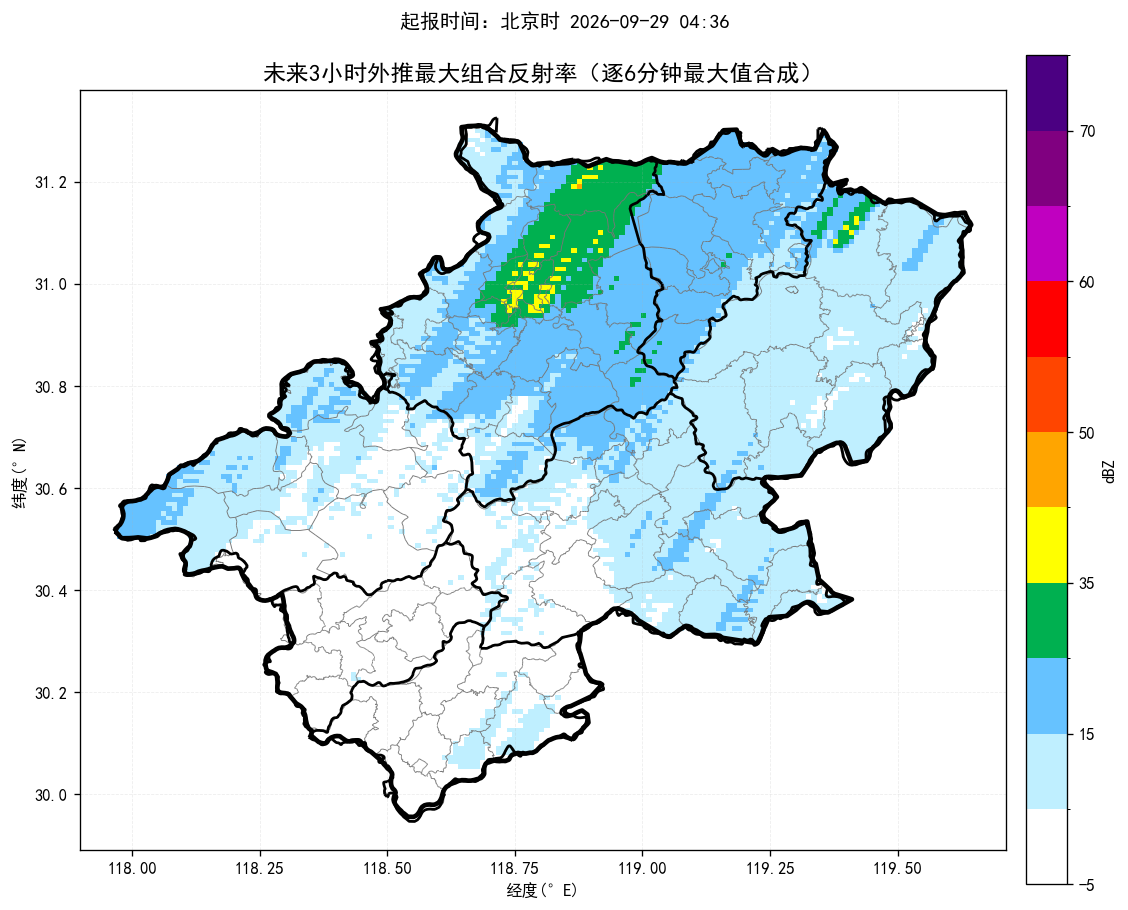
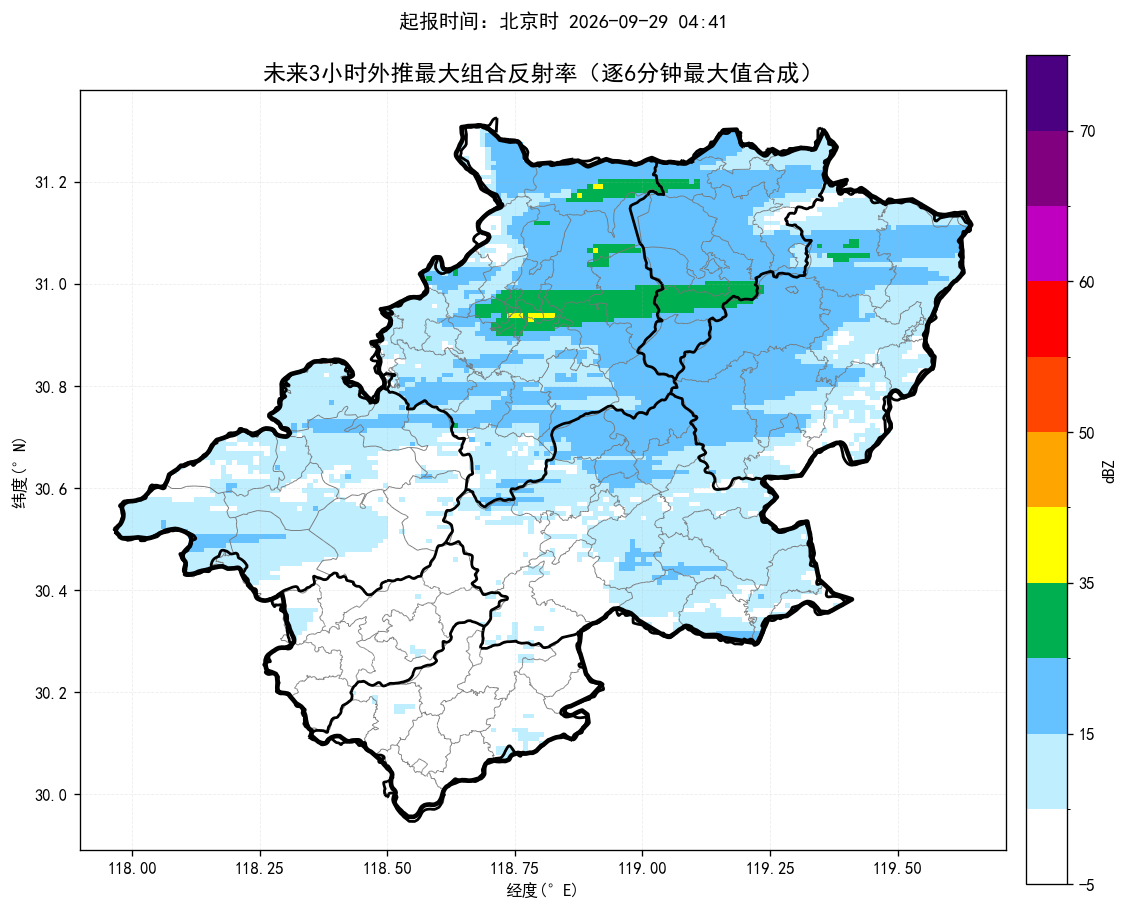
update nowcast products

diff --git a/index.html b/index.html
@@ -14,14 +14,14 @@ img.product{display:block;width:100%;height:auto;margin:10px auto 26px;border:1p
 .footer{font-size:13px;color:#777;text-align:center;margin-top:30px}
 @media(max-width:700px){.sheet{margin:0;padding:18px 15px}.alert-title{font-size:22px}.county-line{font-size:17px}.prob{font-size:18px}}
 </style></head><body><main class="sheet">
-<div class="time">起报时间：北京时 2026-09-29 04:36</div>
+<div class="time">起报时间：北京时 2026-09-29 04:41</div>
 <div class="alert-title">未来一小时降水量超过 20 毫米的乡镇：</div><div class="county-line">无</div>
 <div class="alert-title">未来三小时降水量超过 50 毫米的乡镇：</div><div class="county-line">无</div>
 <div class="alert-title">未来三小时雷暴大风（组合反射率 > 55 dBZ）的乡镇：</div><div class="county-line">无</div>
-<div class="prob">最大降水量概率预估：宣城市范围内未来三小时降水偏小，最大预报约6.7毫米，暂不进行50/80/100毫米概率预估。</div>
-<div class="section-title">未来降水预报图：</div><img class="product auto-refresh-product" data-src="短临降水预报.png" src="短临降水预报.png?v=20260929044200" alt="未来降水预报图">
-<div class="section-title">未来三小时组合反射率图：</div><img class="product auto-refresh-product" data-src="未来3小时组合反射率.png" src="未来3小时组合反射率.png?v=20260929044200" alt="未来三小时组合反射率图">
-<div class="section-title">未来三小时雷暴大风图：</div><img class="product auto-refresh-product" data-src="未来3小时雷暴大风.png" src="未来3小时雷暴大风.png?v=20260929044200" alt="未来三小时雷暴大风图">
+<div class="prob">最大降水量概率预估：宣城市范围内未来三小时降水偏小，最大预报约4.1毫米，暂不进行50/80/100毫米概率预估。</div>
+<div class="section-title">未来降水预报图：</div><img class="product auto-refresh-product" data-src="短临降水预报.png" src="短临降水预报.png?v=20260929044730" alt="未来降水预报图">
+<div class="section-title">未来三小时组合反射率图：</div><img class="product auto-refresh-product" data-src="未来3小时组合反射率.png" src="未来3小时组合反射率.png?v=20260929044730" alt="未来三小时组合反射率图">
+<div class="section-title">未来三小时雷暴大风图：</div><img class="product auto-refresh-product" data-src="未来3小时雷暴大风.png" src="未来3小时雷暴大风.png?v=20260929044730" alt="未来三小时雷暴大风图">
 <div class="footer">三张产品图每 60 秒自动刷新一次；每次请求自动附加新的URL参数以绕过缓存。</div>
 <script>
 (function() {
